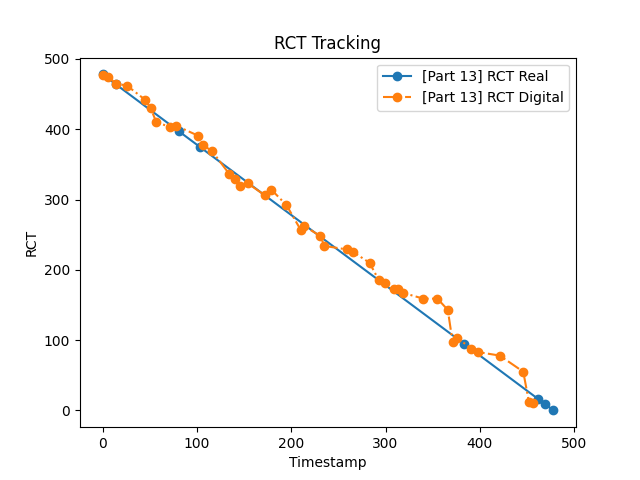
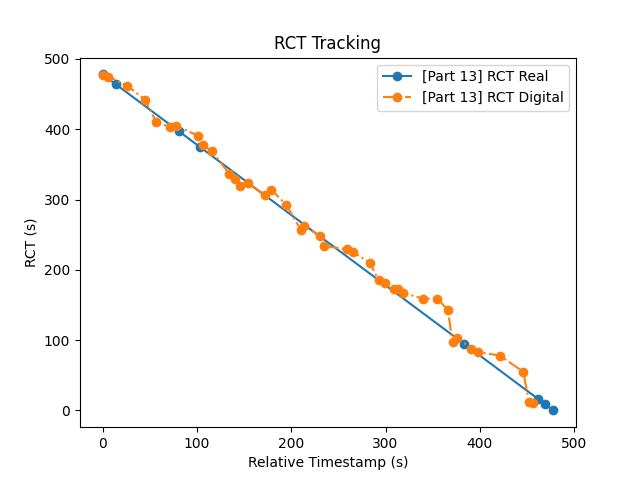
nothing happen

diff --git a/Digital Twin/dtwinpylib/dtwinpy/tester.py b/Digital Twin/dtwinpylib/dtwinpy/tester.py
@@ -1710,8 +1710,8 @@ class Plotter():
                 #--- Add complements
                 self.ADD_complemts(
                     title= "RCT Tracking",
-                    xlable= "Timestamp",
-                    ylable= "RCT"
+                    xlable= "Relative Timestamp (s)",
+                    ylable= "RCT (s)"
                 )
                 
                 #--- Save

diff --git a/Digital Twin/plotting.py b/Digital Twin/plotting.py
@@ -65,6 +65,8 @@ def plotting(exp_ids, plots= ["plot_valid_indicators", "plot_RCT_paths", "plot_q
 
 ############# Running #############
 exp_ids = ["4.11.15.46", "4.11.17.26"]
+exp_ids = ["4.11.17.26"]
+
 #plots= ["plot_comparative_RCT", "plot_utilization", "plot_RCTtracking"]
 plots= ["plot_RCTtracking"]
 plotting(
